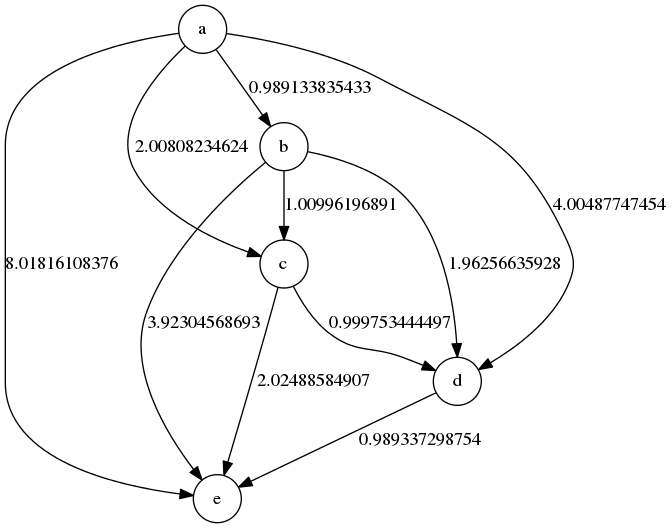
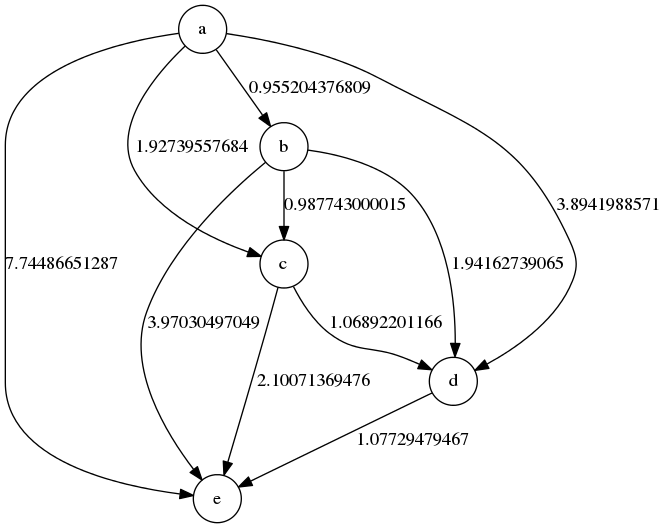
update

diff --git a/examples/physics/physics.py b/examples/physics/physics.py
@@ -7,8 +7,12 @@ from DirectLiNGAM import DirectLiNGAM, draw_causal_graph
 import numpy as np
 import pandas as pd
 
-data = pd.read_csv('res.txt', header=None, delim_whitespace=True).values.T
+data = pd.read_csv('res.txt', header=None, delim_whitespace=True)
+for c in data.columns:
+	data[c] -= data[c].mean()
+data = data.values.T
 labels = ['theta1', 'theta2', 'omega1', 'omega2']
+print('start DirectLiNGAM')
 result = DirectLiNGAM(data, processes=16)
 result_order = result[0]
 result_matrix = result[1]
